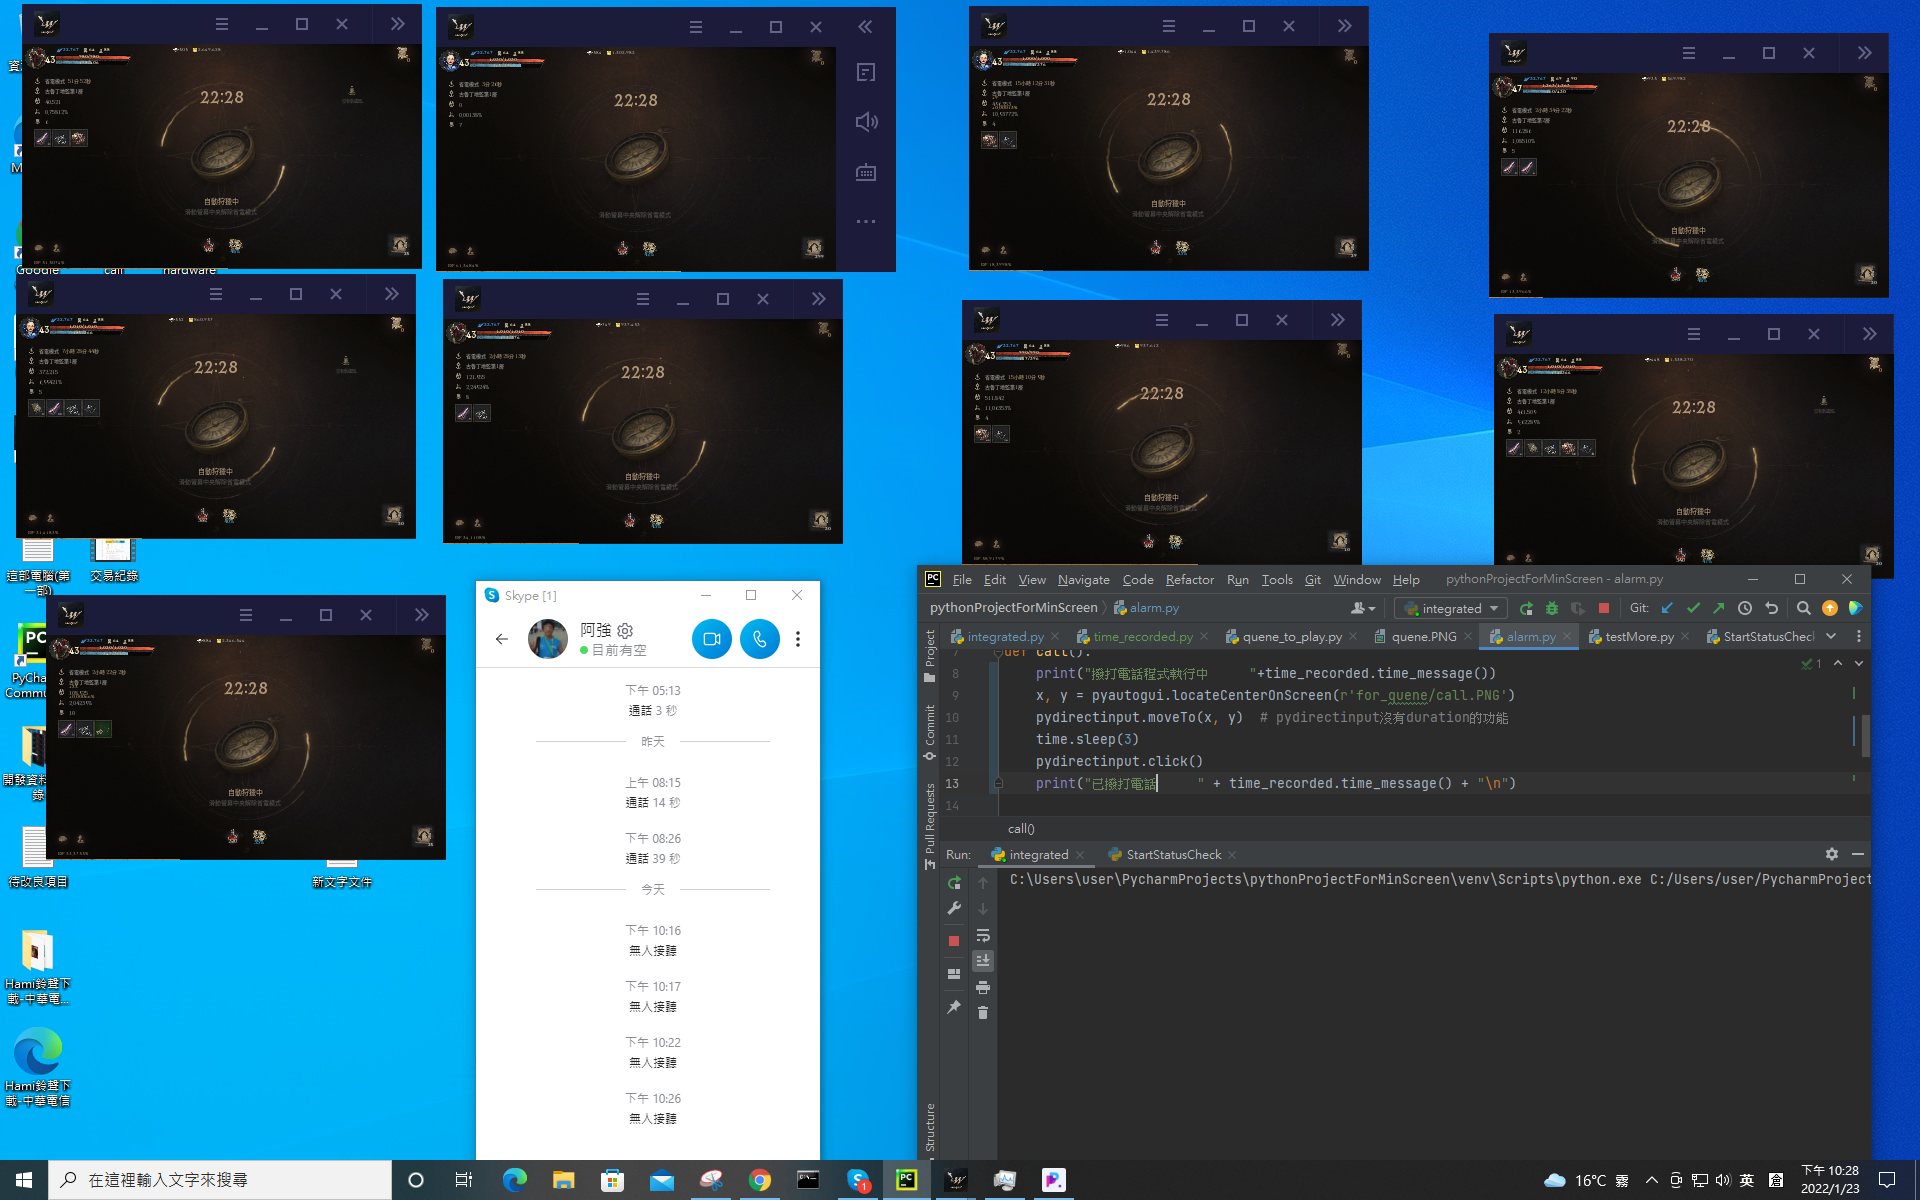
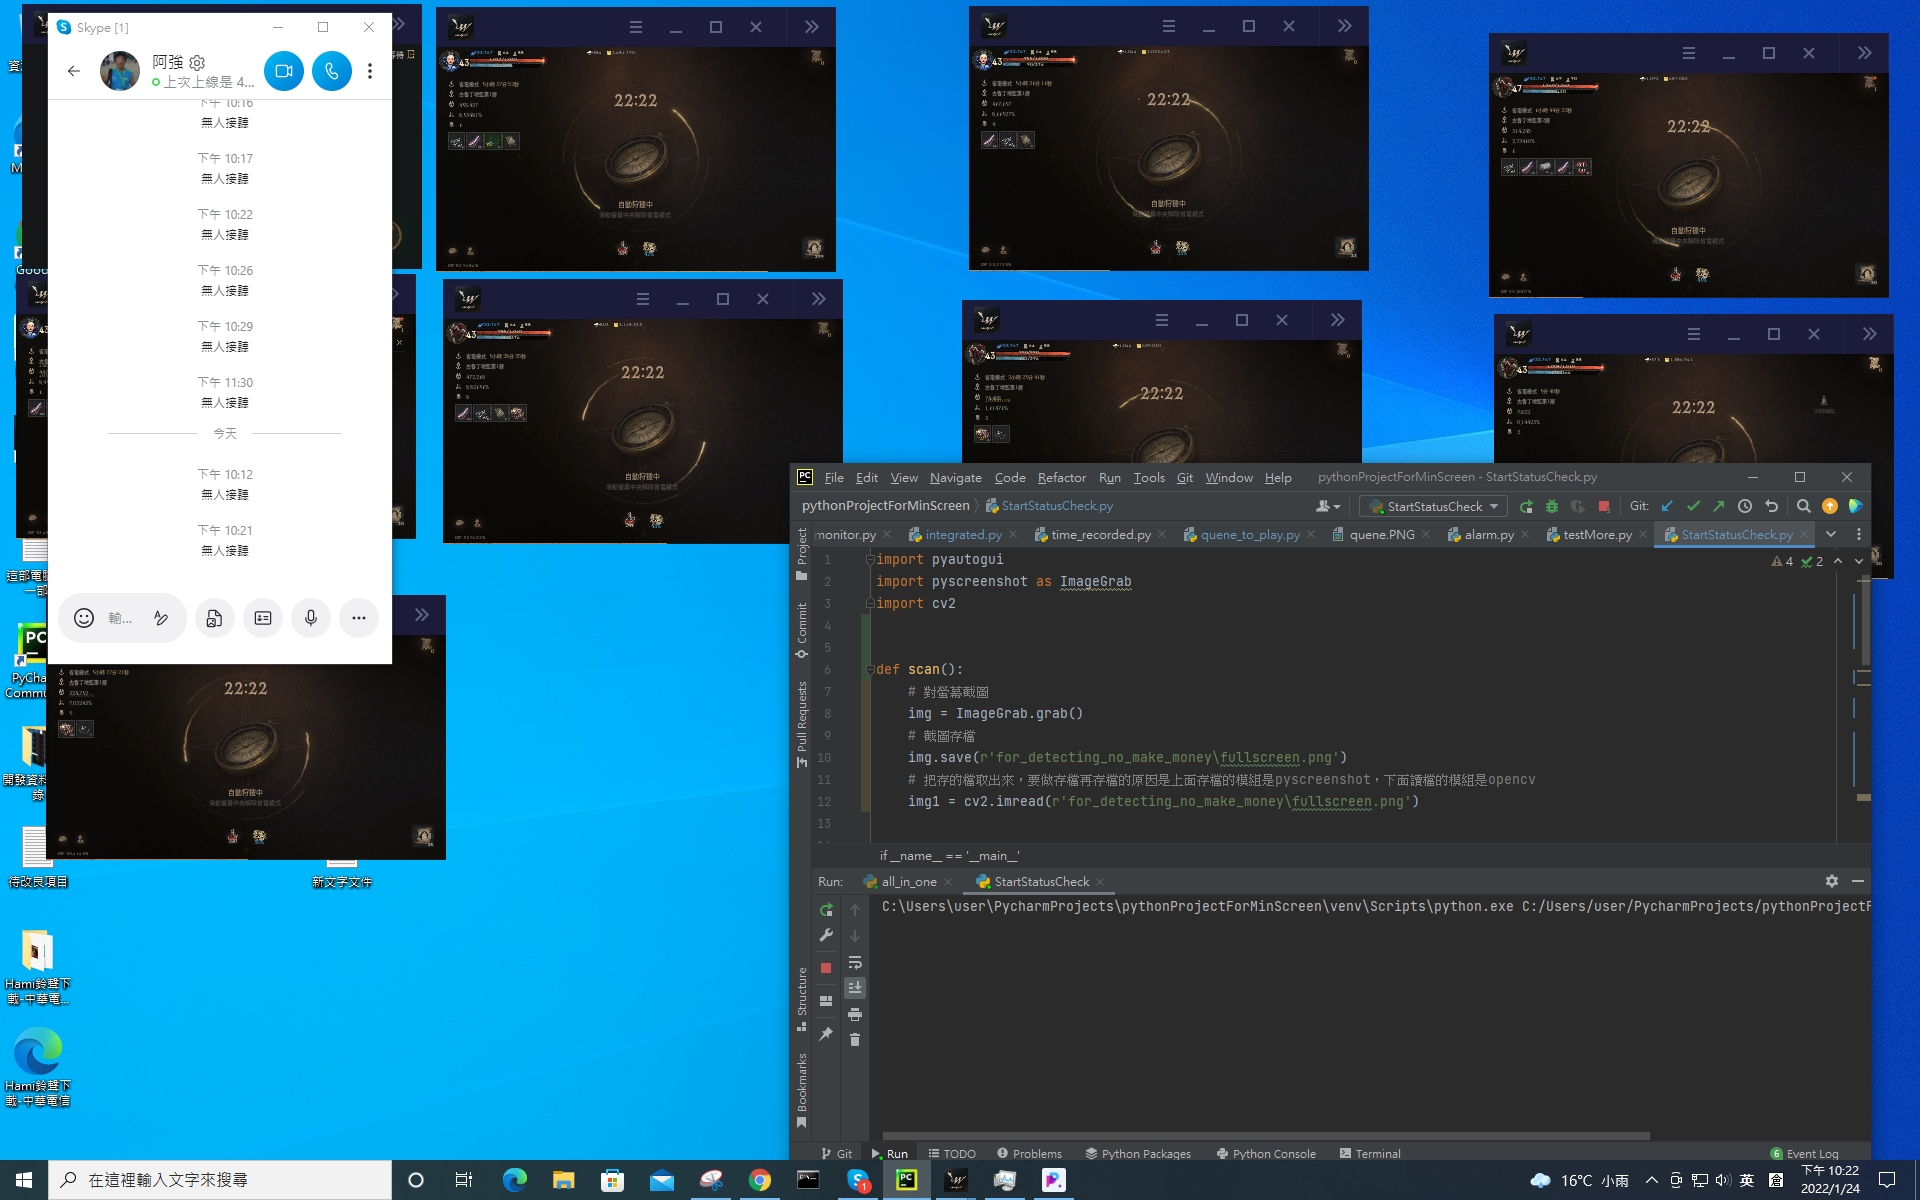
2022/1/24  弄一個py檔把所有功能整合在一個執行檔

diff --git a/StartStatusCheck.py b/StartStatusCheck.py
@@ -1,25 +1,33 @@
 import pyautogui
 import pyscreenshot as ImageGrab
 import cv2
-# 對螢幕截圖
-img = ImageGrab.grab()
-# 截圖存檔
-img.save(r'for_detecting_no_make_money\fullscreen.png')
-# 把存的檔取出來，要做存檔再存檔的原因是上面存檔的模組是pyscreenshot，下面讀檔的模組是opencv
-img1 = cv2.imread(r'for_detecting_no_make_money\fullscreen.png')
 
 
-position = pyautogui.locateAllOnScreen("money_mark.PNG")
-# 因為上面locateAllOnScreen的函數回傳的是generator，無法直接取其數量，所以設deviceNumber取數量
-deviceNumber = 0
+def scan():
+    # 對螢幕截圖
+    img = ImageGrab.grab()
+    # 截圖存檔
+    img.save(r'for_detecting_no_make_money\fullscreen.png')
+    # 把存的檔取出來，要做存檔再存檔的原因是上面存檔的模組是pyscreenshot，下面讀檔的模組是opencv
+    img1 = cv2.imread(r'for_detecting_no_make_money\fullscreen.png')
 
-for i in position:
-    deviceNumber += 1
-    # 因為上面locateAllOnScreen回傳的物件是Box(左上x,左上y,寬,高)，下面畫寬時+50把錢的數字包進去)
-    cv2.rectangle(img1, (i[0], i[1]), (i[0]+i[2]+50, i[1]+i[3]), (0, 255, 0), 2)
 
-img1 = cv2.resize(img1, (0, 0), fx=0.75, fy=0.75)
-cv2.putText(img1, f'{deviceNumber} characters detected', (50, 50), cv2.FONT_HERSHEY_SIMPLEX, 1, (0, 255, 0), 2)
-cv2.imshow(f'{deviceNumber} characters detected', img1)
-cv2.waitKey(0)
+    position = pyautogui.locateAllOnScreen("money_mark.PNG")
+    # 因為上面locateAllOnScreen的函數回傳的是generator，無法直接取其數量，所以設deviceNumber取數量
+    deviceNumber = 0
+
+    for i in position:
+        deviceNumber += 1
+        # 因為上面locateAllOnScreen回傳的物件是Box(左上x,左上y,寬,高)，下面畫寬時+50把錢的數字包進去)
+        cv2.rectangle(img1, (i[0], i[1]), (i[0]+i[2]+50, i[1]+i[3]), (0, 255, 0), 2)
+
+    img1 = cv2.resize(img1, (0, 0), fx=0.75, fy=0.75)
+    cv2.putText(img1, f'{deviceNumber} characters detected', (50, 50), cv2.FONT_HERSHEY_SIMPLEX, 1, (0, 255, 0), 2)
+    cv2.imshow(f'{deviceNumber} characters detected', img1)
+    cv2.waitKey(0)
+
+
+if __name__ == '__main__':
+    scan()
+
 

diff --git a/quene_to_play.py b/quene_to_play.py
@@ -3,19 +3,28 @@ import time
 import alarm
 import time_recorded
 
-print("程式將於5秒後開始偵測，請勿讓本視窗擋住要偵測的畫面     "+ time_recorded.time_message())
-time.sleep(5)
-number = len(list(pyautogui.locateAllOnScreen(r'for_quene/quene.PNG')))
-print(f'偵測到{number}個人物排隊中     '+ time_recorded.time_message())
+def quene():
+    print("程式將於5秒後開始偵測，請勿讓本視窗擋住要偵測的畫面     "+ time_recorded.time_message())
+    time.sleep(5)
+    number = len(list(pyautogui.locateAllOnScreen(r'for_quene/quene.PNG')))
+    if number == 0:
+        print("沒有偵測到排隊中的角色，程式將於10秒鐘後自動關閉     "+time_recorded.time_message())
+        time.sleep(10)
+    else:
+        print(f'偵測到{number}個人物排隊中     '+ time_recorded.time_message())
 
-time_start = time.time()
+        time_start = time.time()
 
-while len(list(pyautogui.locateAllOnScreen(r'for_quene/quene.PNG'))) == number:
-    print(f'程式偵測已經過{round(time.time()-time_start)}秒鐘     '+ time_recorded.time_message())
-    time.sleep(60)
-print("呼叫撥電話程式中     " + time_recorded.time_message())
-alarm.call()
-print("程式將於5秒後自動關閉     " + time_recorded.time_message())
-time.sleep(5)
-# pyautogui.click(pyautogui.locateCenterOnScreen(r'for_quene/call.PNG'))
+        while len(list(pyautogui.locateAllOnScreen(r'for_quene/quene.PNG'))) == number:
+            print(f'程式偵測已經過{round(time.time()-time_start)}秒鐘     '+ time_recorded.time_message())
+            time.sleep(60)
+        print("呼叫撥電話程式中     " + time_recorded.time_message())
+        alarm.call()
+        print("程式將於5秒後自動關閉     " + time_recorded.time_message())
+        time.sleep(5)
+        # pyautogui.click(pyautogui.locateCenterOnScreen(r'for_quene/call.PNG'))
+
+
+if __name__ == '__main__':
+    quene()
 

diff --git a/integrated.py b/integrated.py
@@ -3,14 +3,20 @@ import alarm
 import time
 import time_recorded
 
-while True:
-    a = monitor.check()   # 沒在賺錢的角色數量。
-    if a == 0:
 
-        print(f"在遊戲中的角色都在賺錢     "+time_recorded.time_message()+"\n")
+def integrate():
+    while True:
+        a = monitor.check()   # 沒在賺錢的角色數量。
+        if a == 0:
 
-    else:
-        print(f"在遊戲中的角色有{a}個沒有在賺錢     " + time_recorded.time_message())
-        print("呼叫撥打電話的程式中     "+time_recorded.time_message())
-        alarm.call()     # 打電話
-    time.sleep(1800)
+            print(f"在遊戲中的角色都在賺錢     "+time_recorded.time_message()+"\n")
+
+        else:
+            print(f"在遊戲中的角色有{a}個沒有在賺錢     " + time_recorded.time_message())
+            print("呼叫撥打電話的程式中     "+time_recorded.time_message())
+            alarm.call()     # 打電話
+        time.sleep(1800)
+
+
+if __name__ == '__main__':
+    integrate()

diff --git a/all_in_one.py b/all_in_one.py
@@ -1,0 +1,29 @@
+# 這個py是用來整合所有功能在一個執行檔
+import alarm
+import StartStatusCheck
+import quene_to_play
+import integrated
+
+
+def finall():
+    print("<A>:測試撥skype功能是否正常")
+    print("<B>:測試目前程式能偵測到幾個角色在省電模式中")
+    print("<C>:執行排隊偵測，將於排完隊後撥打skype提醒，此程式每分鐘偵測一次")
+    print("<D>:執行角色是否正在賺錢，發現有角色於一分鐘內金幣沒有增加，會撥打skype提醒，此程式每半小時執行一次，直到使用者關閉視窗")
+    print("<Q>:結束程式")
+    command = input("請輸入對應的大寫字母後按ENTER執行:")
+    if command == "A":
+        alarm.call()
+    elif command == "B":
+        StartStatusCheck.scan()
+    elif command == "C":
+        quene_to_play.quene()
+    elif command == "D":
+        integrated.integrate()
+    elif command == "Q":
+        pass
+    else:
+        finall()
+
+
+finall()
